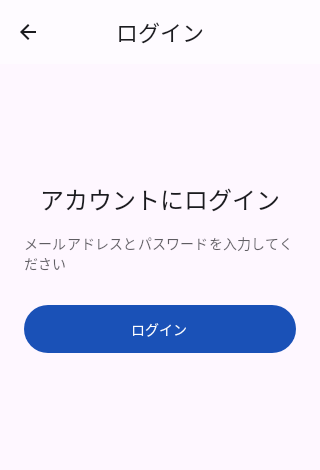
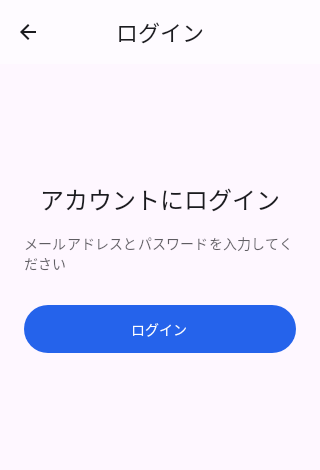
feat: AI駆動UIレビューシステムを再設計
- ベースライン画像を最新コードで再撮影
- ワークフローを1ジョブ方式に統合（環境セットアップ + claude-code-action）
- UIファイル変更時のみ自動実行（pathフィルタ）
- review-ui.md を新設計に刷新:
  - AIが影響範囲を特定 → 該当テストだけ選択的に実行
  - cml publishで画像をCDNにアップロード
  - CI/ローカル共通で動作

Changed region(s): [[0.0625, 0.6255, 0.9375, 0.7745]]

diff --git a/.claude/commands/review-ui.md b/.claude/commands/review-ui.md
@@ -4,82 +4,161 @@ description: "AI駆動UIレビュー: 影響範囲分析 + スクショ差分検
 
 # /review-ui — AI駆動UIレビュー
 
-PRを出す前の「どの画面が影響する？見た目は大丈夫？」を全自動で実行する。
+UIコード変更に対する影響範囲分析、影響テストの選択的実行、差分画像のデザインレビューを自動実行する。
 
-## Step 1: 影響範囲分析
+## Step 1: 変更内容の把握
 
-git diff から変更内容を把握し、影響する画面を特定する。
+1. `git diff origin/main --name-only` で変更ファイル一覧を取得
+   - origin/mainがない場合は `git diff main --name-only` を試す
+2. 変更ファイルの内容を Read で読み取り、何が変わったかを正確に把握する
+3. 変更を以下のカテゴリに分類する:
+   - **テーマ/トークン変更**: Color.kt, Theme.kt → 広範囲影響の可能性
+   - **共通コンポーネント変更**: PrimaryButton.kt, TopAppBar.kt 等 → 使用箇所すべてに影響
+   - **画面固有の変更**: SampleScreen.kt 等 → 影響は限定的
+   - **新規UI追加**: 新ファイルの追加 → ベースライン撮影が必要
 
-1. `git diff develop --name-only` で変更ファイル一覧を取得
-2. 変更ファイルの内容を Read で読み取り、何が変わったかを把握
-3. 変更された関数/クラス/トークンを使用している箇所を Grep で検索
-4. 依存チェーンを辿り、最終的に影響する画面（Screen/Activity）を特定
-5. **影響しない画面とその理由**も明記する（例: colorResource経由のため影響なし）
+## Step 2: 影響範囲の網羅的な特定
 
-### 出力フォーマット
+変更されたコードから依存関係を辿り、影響するコンポーネント・画面を**すべて**特定する。
 
-```markdown
-## 影響範囲分析
+### 手順
 
-### 変更内容
-- `ファイルパス`: 変更の概要
+1. 変更されたファイル内のpublic関数/クラス/プロパティ名を特定
+2. それらの名前をGrepで検索し、直接使用しているファイルを見つける
+3. さらにそのファイルを使用しているファイルをGrepで再帰的に辿る
+4. 最終的に影響を受けるすべてのコンポーネントと画面をリストアップ
 
-### 影響を受ける画面
-| コンポーネント/画面 | ファイルパス | 影響の理由 |
-|---|---|---|
+### 判断基準の例
 
-### 影響を受けない画面（確認済み）
-| コンポーネント/画面 | ファイルパス | 影響しない理由 |
-|---|---|---|
+- Color.kt の `PrimaryLight` を変更した場合:
+  - → Theme.kt の `LightColorScheme.primary` で使用
+  - → `MaterialTheme.colorScheme.primary` を使う PrimaryButton（containerColor）、SimpleDialog（確認ボタン色）に影響
+  - → PrimaryButton を使う SampleScreen にも影響
+  - → TopAppBar は `surface` 色を使っているため影響**なし**
+
+**重要**: 「影響あり」だけでなく「影響なし」の根拠も示すこと。
+
+## Step 3: テスト選定と実行
+
+### 3-1: ベースライン確認
+
+```bash
+ls app/screenshots/*.png 2>/dev/null | head -20
 ```
 
-## Step 2: スクリーンショット差分検出
+ベースラインがない場合は `./gradlew recordRoborazziDebug` で初回撮影し、レポートに「ベースラインを撮影しました」と記載して終了する。
 
-影響範囲に基づいてRoborazziで差分を検出する。
+### 3-2: 影響範囲に対応するテストを選定
 
-1. ベースライン画像が `screenshots/` に存在するか確認
-2. ベースラインがない場合: `./gradlew recordRoborazziDebug` でベースライン撮影
-3. ベースラインがある場合: `./gradlew compareRoborazziDebug` で差分生成
-4. `app/build/outputs/roborazzi/` 配下の `*_compare.png` を探す
+Step 2の結果から、影響を受けるコンポーネント/画面に対応するスクリーンショットテストを特定する。
 
-## Step 3: 差分画像のAIレビュー
+テストクラスは `app/src/test/` 配下にある。テストメソッド名とコンポーネント名の対応を確認し、実行すべきテストを選定する。
 
-差分画像が見つかった場合、Read ツールで画像を読み取り分析する。
+### 3-3: 選定したテストだけ実行
 
-各差分画像について以下を判定:
-- **変更前（Reference）** と **変更後（New）** の違い
-- レイアウトの崩れがないか
-- 色のコントラストが十分か（特にダークテーマ）
-- コード変更の意図と一致しているか
+```bash
+./gradlew compareRoborazziDebug --tests "テストクラス名.テストメソッド1" --tests "テストクラス名.テストメソッド2"
+```
+
+例: PrimaryButton と SampleScreen が影響範囲の場合:
+```bash
+./gradlew compareRoborazziDebug \
+  --tests "com.example.screenshottest.screenshot.ComponentScreenshotTest.primaryButton_light" \
+  --tests "com.example.screenshottest.screenshot.ComponentScreenshotTest.primaryButton_dark" \
+  --tests "com.example.screenshottest.screenshot.ComponentScreenshotTest.sampleScreen_light" \
+  --tests "com.example.screenshottest.screenshot.ComponentScreenshotTest.sampleScreen_dark"
+```
+
+**なぜ全テスト実行ではなく選択実行か**: AIが影響範囲を特定した結果がテスト選定という実際のアクションに直結することで、AIの分析に意味が生まれる。
+
+### 3-4: 差分画像の収集
+
+```bash
+find app/build/outputs/roborazzi -name "*_compare.png" 2>/dev/null | sort
+```
+
+## Step 4: 差分画像のアップロード（CI環境のみ）
+
+環境変数 `GITHUB_ACTIONS` または `REPO_TOKEN` が存在する場合はCI環境。
+`cml publish` で各差分画像をGitHub CDNにアップロードし、URLを記憶する。
+
+```bash
+cml publish "画像パス"
+```
+
+このコマンドはCDN URLを標準出力に返す。各テスト名とURLの対応をレポートで使用する。
+
+ローカル環境ではアップロードせず、ローカルパスをそのまま記載する。
+
+## Step 5: 差分画像のAIデザインレビュー
+
+差分画像（*_compare.png）をReadツールで読み取り、マルチモーダル分析する。
+
+### 各画像について以下を評価
+
+1. **変更前後の違い**: Reference（左）とNew（右）の具体的な差異
+2. **意図との整合性**: Step 1のコード変更の意図と、見た目の変化が一致しているか
+3. **デザイン品質**:
+   - レイアウトの崩れがないか
+   - テキストの可読性（色コントラスト比）
+   - ダークテーマでの視認性
+   - 余白・間隔の一貫性
 
 ### 判定基準
-- ✅ **意図した変更**: コード変更の意図通りの見た目の変化
-- ⚠ **要確認**: 意図した変更だが確認推奨（コントラスト、アクセシビリティなど）
-- ❌ **レグレッション**: 意図しない見た目の変化、レイアウト崩れ
 
-## Step 4: レポート出力
+- ✅ **意図した変更**: コード変更の意図通りの見た目の変化。問題なし
+- ⚠ **要確認**: 意図した変更だが、コントラスト・アクセシビリティ等の懸念あり
+- ❌ **レグレッション**: 意図しない見た目の変化、またはレイアウト崩れ
 
-以下のフォーマットでレポートを出力する。PRコメントにそのまま貼れる形式。
+## Step 6: テストカバレッジ確認
 
-```markdown
-# AI駆動UIレビュー結果
+Step 2で特定した「影響を受けるコンポーネント/画面」のうち、スクリーンショットテストがないものを特定する。
+テスト未カバーの画面がある場合、手動確認が必要な旨をレポートに記載する。
 
-## 1. 影響範囲
-（Step 1の結果）
+## Step 7: レポート出力
 
-## 2. スクリーンショット差分
-| テスト名 | 差分有無 | 判定 |
+以下のフォーマットでレポートを出力する。
+
+CI環境ではPRコメントとして自動投稿される。
+ローカル環境ではターミナルに出力される。
+
+```
+## 🤖 AI駆動UIレビュー
+
+### 変更概要
+（何がどう変わったかを1-2行で）
+
+### 影響範囲分析
+
+#### ⭕ 影響あり
+| コンポーネント/画面 | 影響の理由 | テストカバレッジ |
 |---|---|---|
-| PrimaryButton_light | あり | ✅ 意図した変更 |
-| PrimaryButton_dark | なし | - |
+| PrimaryButton | primary色を直接使用 | ✅ スクショテストあり |
 
-### 差分詳細
-（差分があった画像ごとに分析結果を記載）
+#### ➖ 影響なし（確認済み）
+| コンポーネント/画面 | 影響なしの根拠 |
+|---|---|
+| TopAppBar | surface色を使用、primary色は不使用 |
 
-## 3. 総合判定
-- ✅ / ⚠ / ❌ の集計
-- 手動確認が必要な画面のリスト（テスト未導入の画面）
+### 実行したテスト
+以下のテストを影響範囲に基づいて選択的に実行しました:
+- primaryButton_light / primaryButton_dark
+- sampleScreen_light / sampleScreen_dark
+（選定理由: PrimaryLight変更 → PrimaryButton, SampleScreenが影響を受けるため）
 
-## 4. 推奨アクション
-- 確認が必要な項目のリスト
+### スクリーンショット差分
+
+#### {テスト名}
+**判定**: ✅ / ⚠ / ❌
+**分析**: （変更前後の違い、デザイン観点の評価を具体的に）
+
+![テスト名](CDN_URLまたはローカルパス)
+
+### 手動確認が必要な画面
+テスト未カバーで影響を受ける画面のリスト。
+すべてカバーされている場合は「すべての影響画面がテストでカバーされています」と記載。
+
+### 総合判定
+変更全体の安全性とマージ可否の推奨を1-3行で記載。
+ベースライン更新が必要な場合は `./gradlew recordRoborazziDebug` の実行を案内。
 ```
